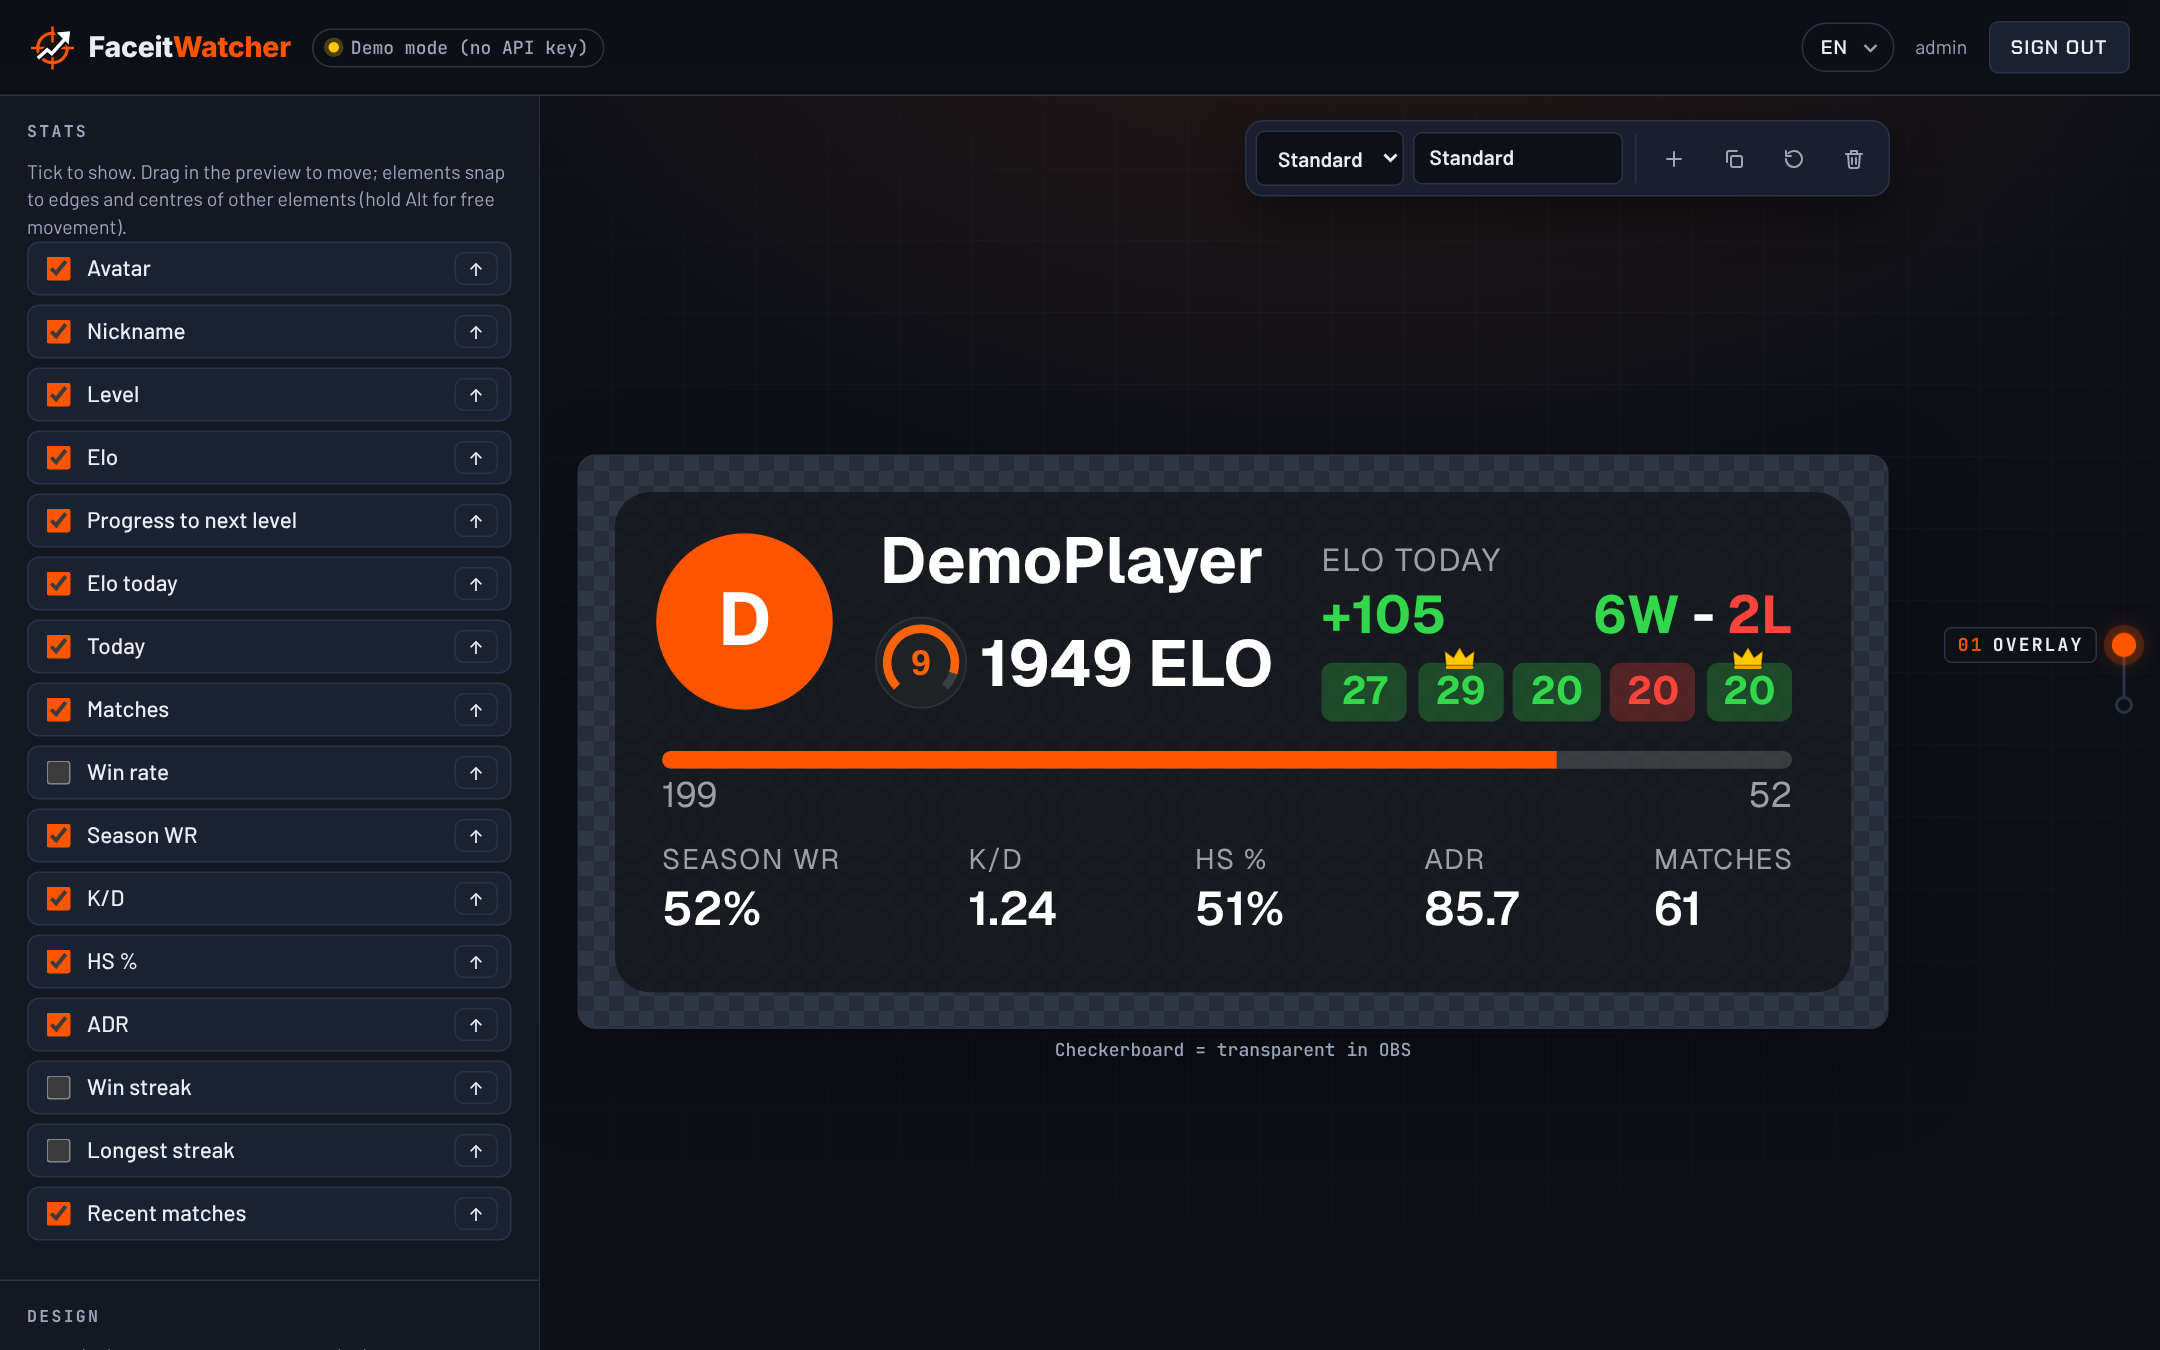
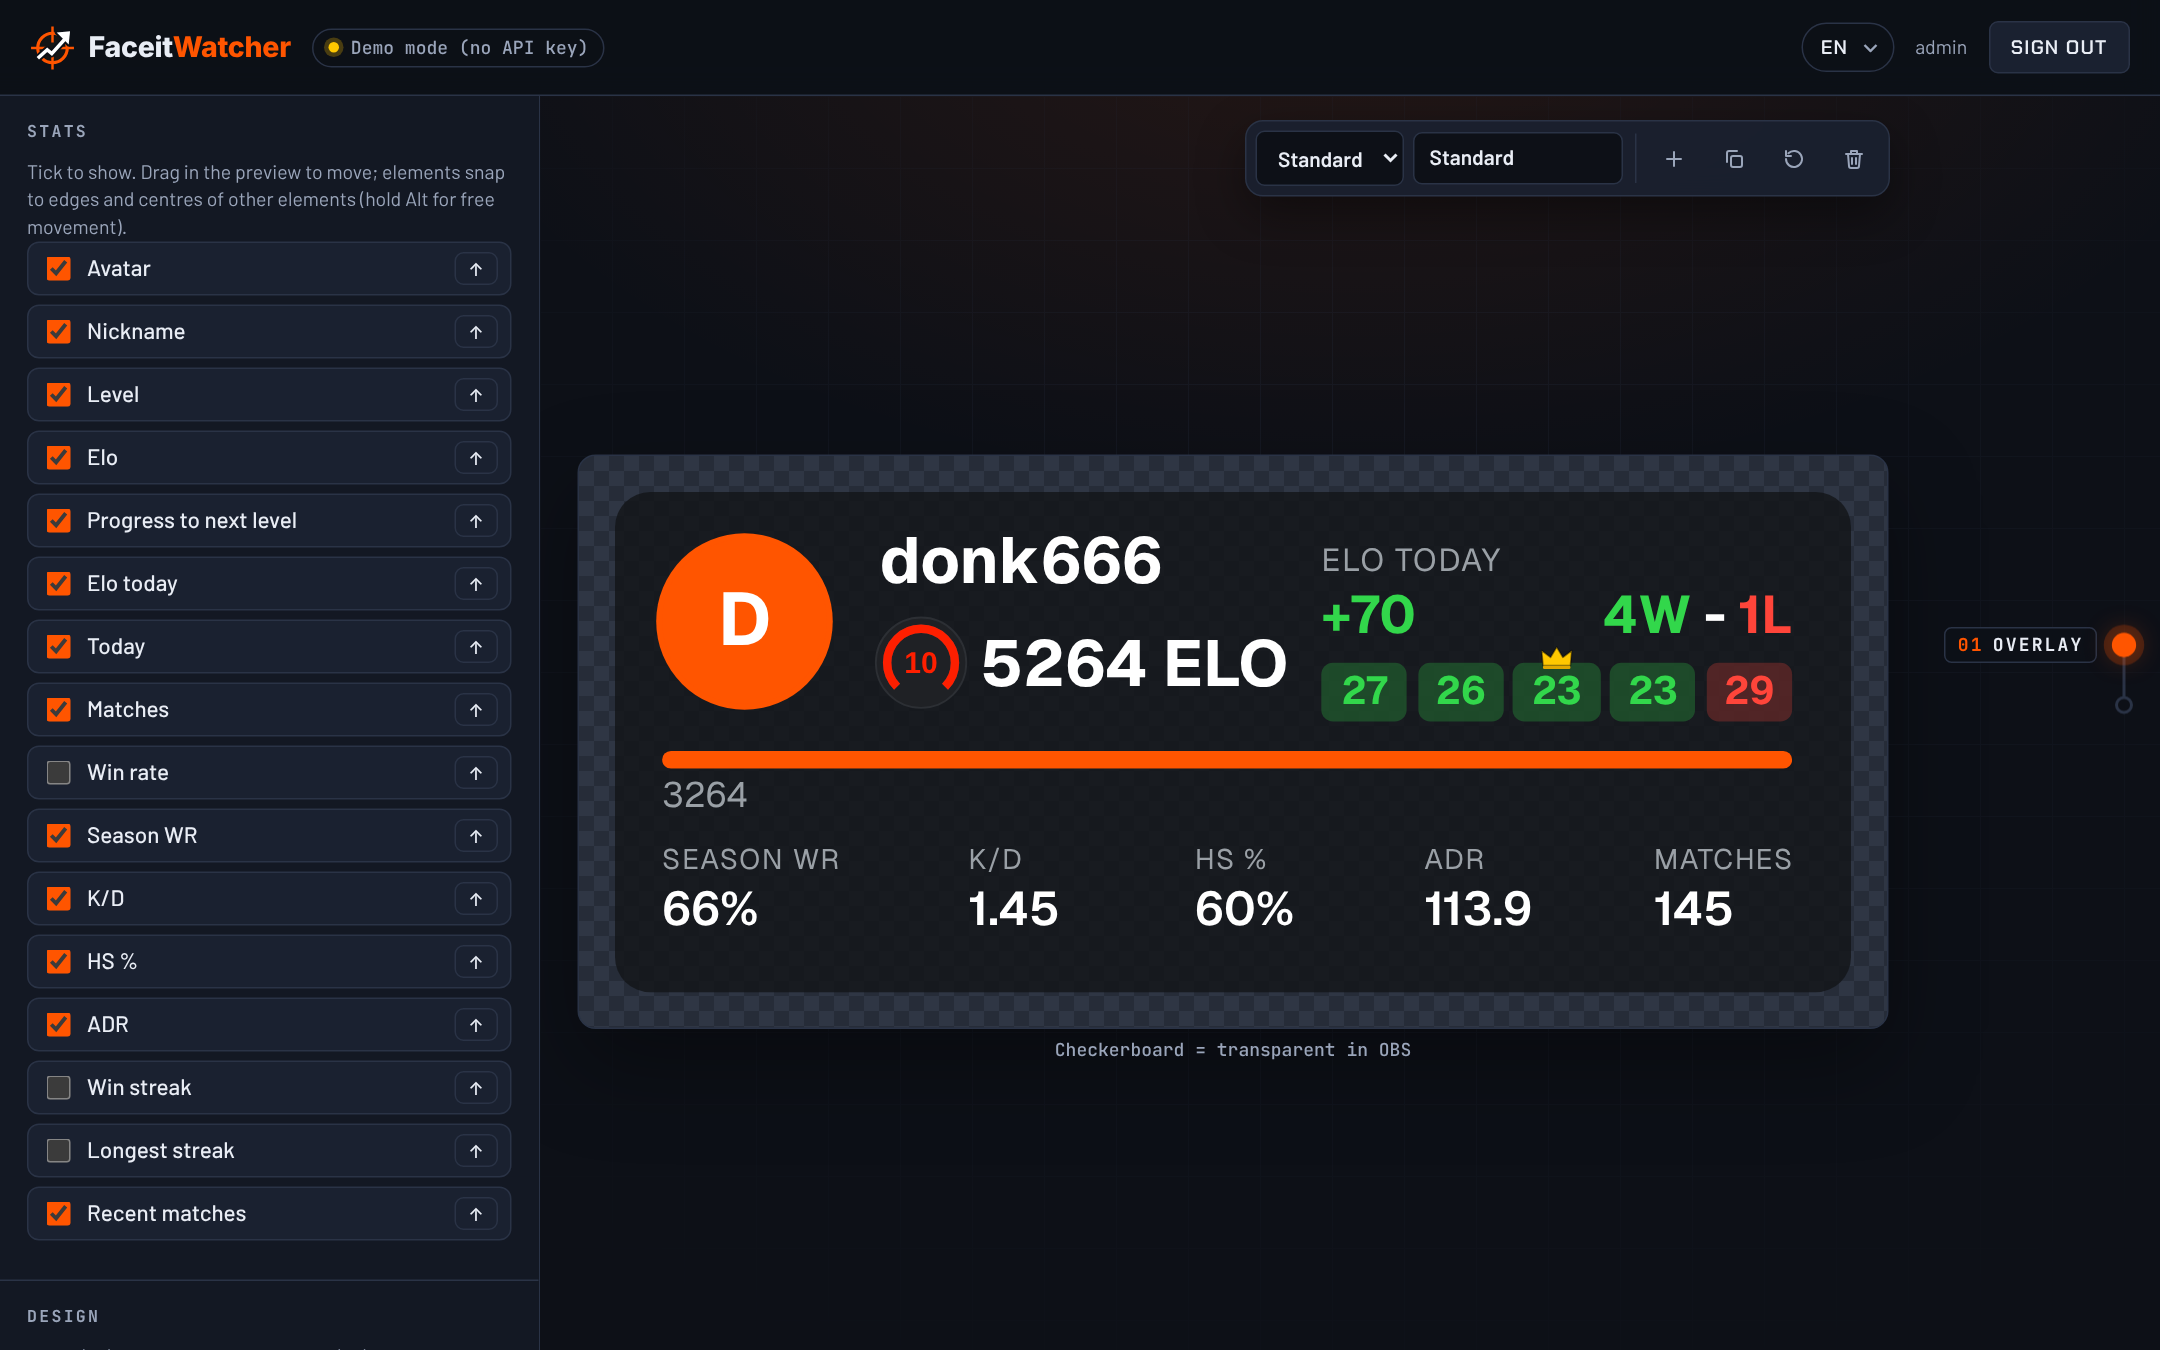
README screenshots with donk666's stats

diff --git a/README.md b/README.md
@@ -25,7 +25,7 @@ Build your own Faceit overlays (Elo, level, K/D, session stats, …) for OBS and
 
 ![Statistics view with Elo history and season](docs/screenshots/stats.png)
 
-All screenshots show demo mode with sample data. The editor is available in English, German, Russian and French.
+The screenshots use the stats of donk (Faceit donk666, as of Oct 25, 2026), played back in demo mode. The editor is available in English, German, Russian and French.
 
 ## Requirements
 
